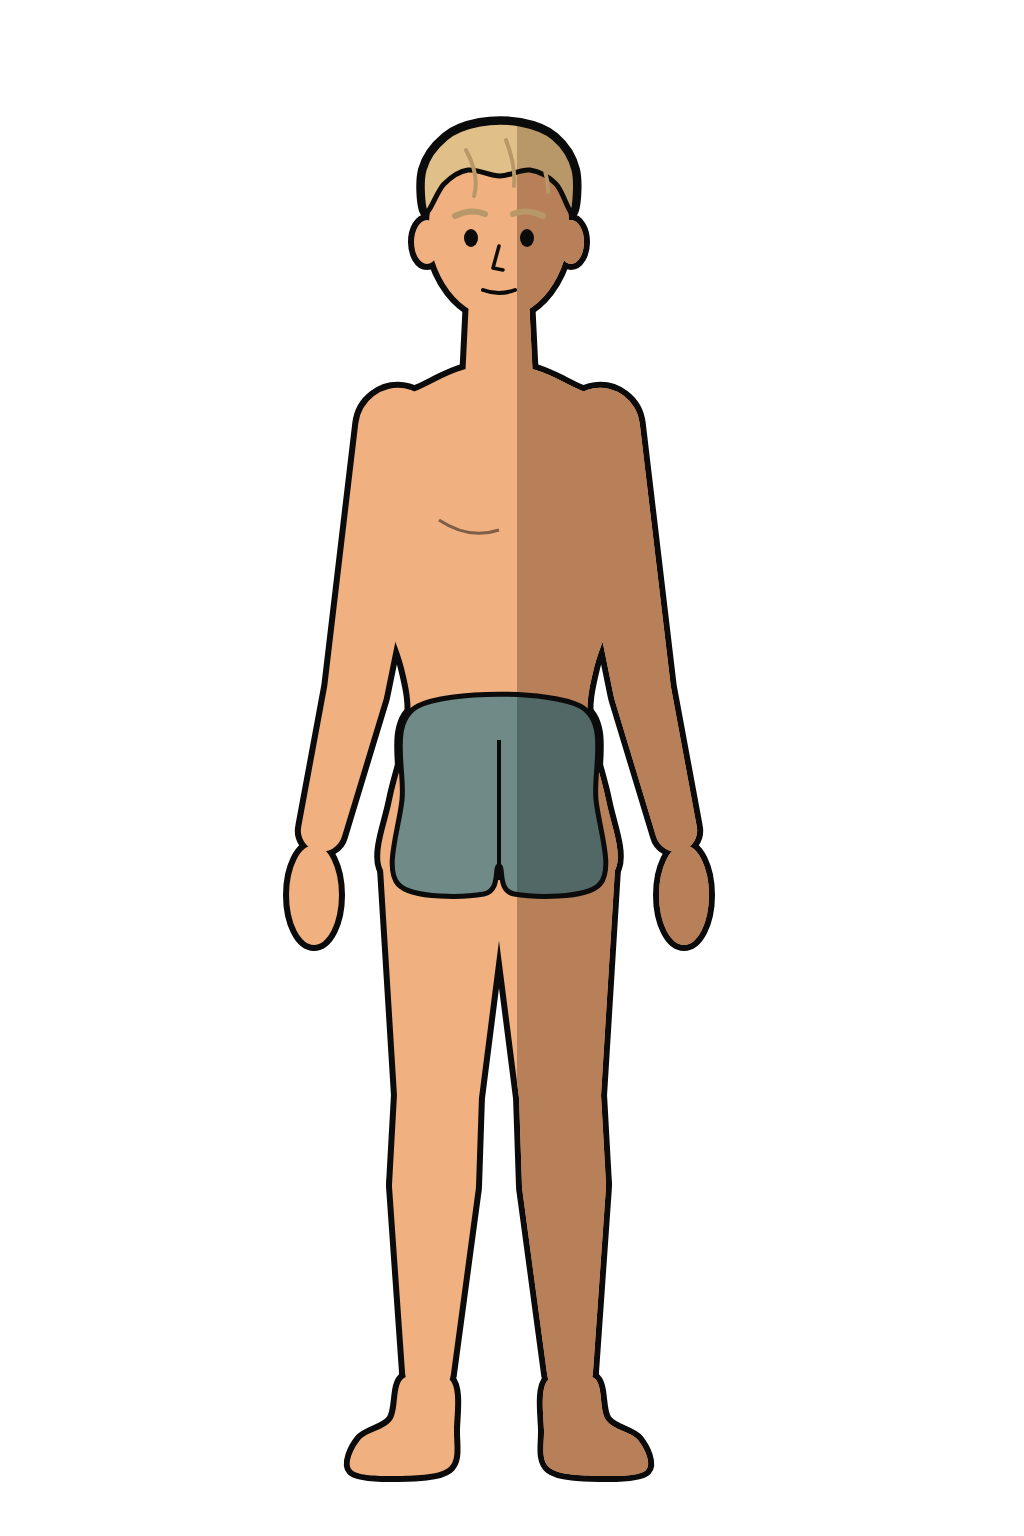
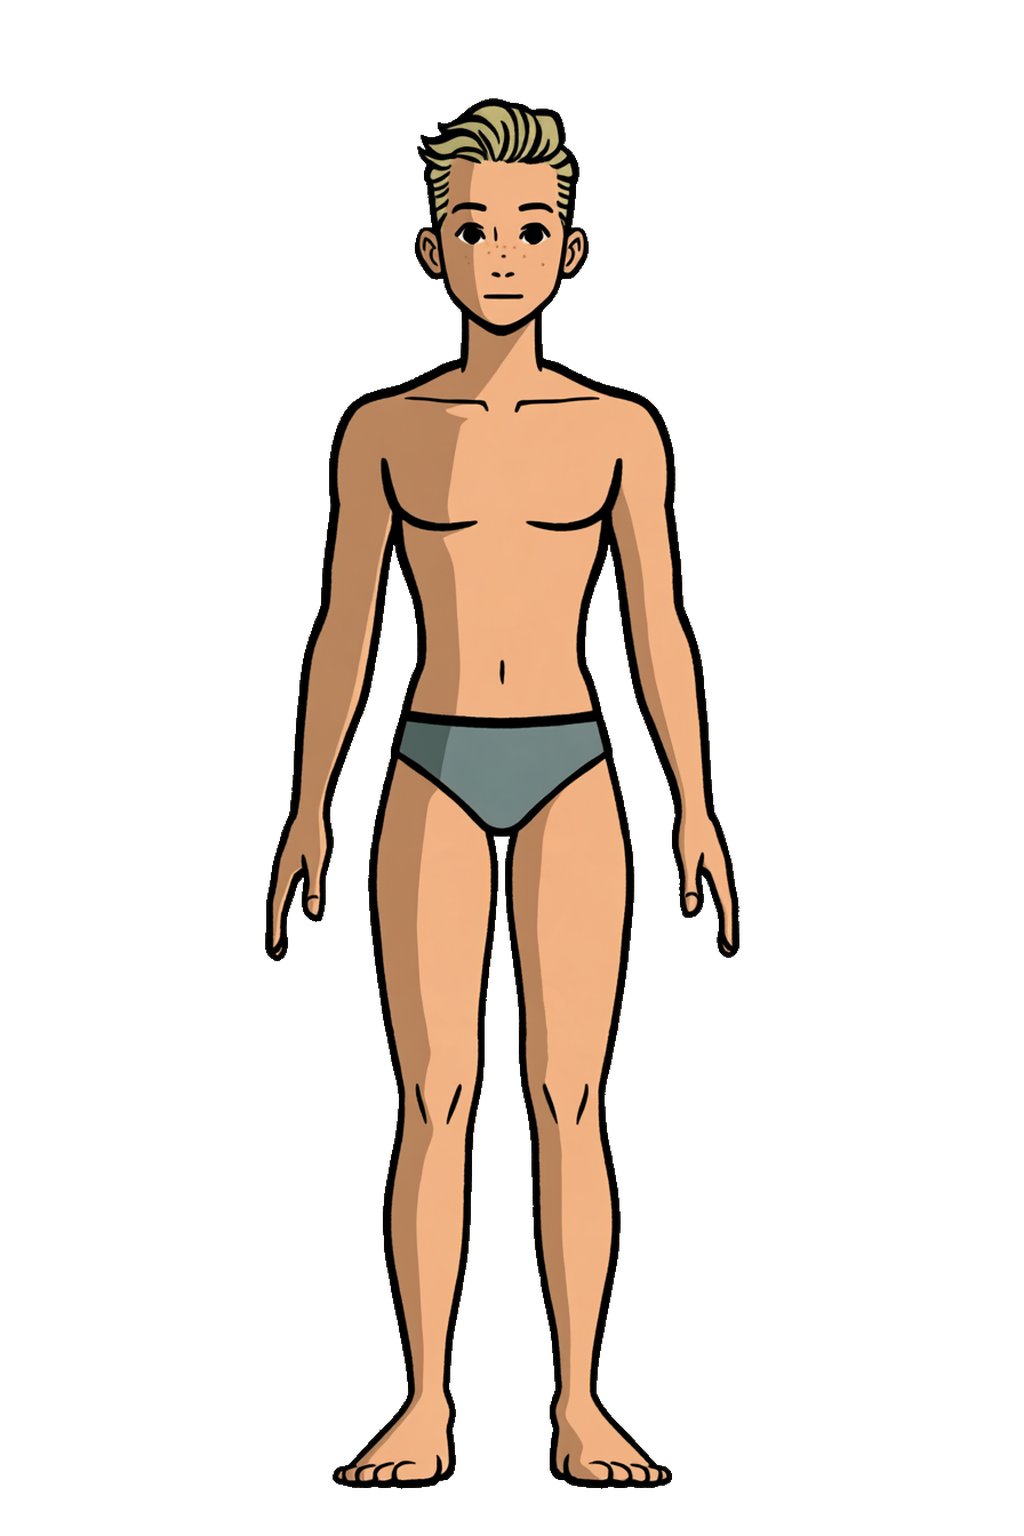
Envoy 4.1: the male Envoy, drawn by the user
His base figure replaces the placeholder of the second figure, with his
own versions of Leinenhemd, Leinenhose and Griffhandschuhe in his folder
(found by the converter). The layers were cleaned of faint specks and
scaled to 1024 x 1536; they fit exactly.

His drawn skin and ash blond hair are set in FIGURES, so recolouring
works for him too. The first choice of skin and hair now stands for the
colours each figure is drawn in, so his own blond stays his.

Claude-Session: https://claude.ai/code/session_0117M4aYJ5RoPwj7oU8m6XcB

Changed region(s): [[0.25, 0.0625, 0.7188, 0.9688]]

diff --git a/js/config.js b/js/config.js
@@ -1,7 +1,7 @@
 // Fixed values of the game. Everything the rules depend on lives here,
 // so it can be checked in one place against docs/spezifikation.md.
 
-export const APP_VERSION = '4.0.0';
+export const APP_VERSION = '4.1.0';
 
 // The four stats, in display order. `area` is the real-life daily task.
 export const STATS = [
@@ -55,21 +55,21 @@ export const SLOTS = [
 
 export const BASE_FIGURE_LAYER = 2;
 
-// The Envoy: figures to choose from when the Envoy is created. Each has
-// its own folder with basisfigur.png. Clothing layers lie in the folder of
-// the first figure; a figure can have its own version of a layer in its
-// folder (same file name), otherwise it wears the one of the first.
+// The Envoy: figures to choose from when the Envoy is created, both drawn
+// by the user. Each has its own folder with basisfigur.png. Clothing layers
+// lie in the folder of the first figure; a figure can have its own version
+// of a layer in its folder (same file name), otherwise it wears the one of
+// the first.
 // skin / skinShadow / hair: the colours the figure is drawn in; the app
 // paints them in the chosen colours (see ui/look.js). hairZone: hair only
 // occurs in this upper share of the picture.
 export const FIGURES = [
-  { id: 'erste', name: 'Erste Figur', folder: 'assets/figur', skin: [240, 176, 128], skinShadow: [184, 128, 88], hair: [224, 192, 136], hairZone: 0.25 },
-  // placeholder until the user's second figure is drawn
-  { id: 'zweite', name: 'Zweite Figur', folder: 'assets/figur/zweite', skin: [240, 176, 128], skinShadow: [184, 128, 88], hair: [224, 192, 136], hairZone: 0.25 },
+  { id: 'erste', name: 'Envoy mit Dutt', folder: 'assets/figur', skin: [240, 176, 128], skinShadow: [184, 128, 88], hair: [224, 192, 136], hairZone: 0.25 },
+  { id: 'zweite', name: 'Envoy mit kurzem Haar', folder: 'assets/figur/zweite', skin: [240, 176, 130], skinShadow: [182, 130, 90], hair: [190, 178, 118], hairZone: 0.25 },
 ];
 
-// Choices for skin and hair. The first of each is the colour the figures
-// are drawn in.
+// Choices for skin and hair. The first of each stands for the colour a
+// figure is drawn in (its own blond, its own skin), so it is never painted.
 export const SKIN_TONES = [
   { id: 'pfirsich', name: 'Pfirsich', rgb: [240, 176, 128] },
   { id: 'hell', name: 'Hell', rgb: [248, 208, 180] },

diff --git a/js/ui/create.js b/js/ui/create.js
@@ -5,6 +5,7 @@
 import { h, replaceChildren } from './dom.js';
 import { FIGURES, SKIN_TONES, HAIR_COLORS, NAME_MAX } from '../config.js';
 import { paperdoll } from './paperdoll.js';
+import { resolveLook } from './look.js';
 
 const rgb = (c) => `rgb(${c.rgb.join(',')})`;
 
@@ -41,6 +42,8 @@ export function renderCreate(game, { onDone, onCancel = null } = {}) {
   }
 
   function swatches(list, key, label) {
+    // the first colour is the one the chosen figure is drawn in
+    const drawn = resolveLook({ figur: choice.figur })[key === 'haut' ? 'skin' : 'hair'];
     return h('div', { class: 'swatch-group' },
       h('p', { class: 'swatch-label' }, label),
       h('div', { class: 'swatches', role: 'radiogroup', 'aria-label': label }, list.map((c) => h('button', {
@@ -49,7 +52,7 @@ export function renderCreate(game, { onDone, onCancel = null } = {}) {
         'aria-checked': String(choice[key] === c.id),
         'aria-label': c.name,
         title: c.name,
-        style: { background: rgb(c) },
+        style: { background: rgb(c === list[0] ? drawn : c) },
         onclick: () => { choice[key] = c.id; draw(); },
       }))));
   }

diff --git a/js/ui/look.js b/js/ui/look.js
@@ -15,12 +15,16 @@ const painting = new Map(); // key -> Promise of a picture address
 const painted = new Map();  // key -> picture address, once ready
 
 // The figure and colours of an Envoy; unknown or missing values fall back
-// to the first of each list.
+// to the first of each list. The first colour of each list is the one the
+// figure is drawn in.
 export function resolveLook(envoy) {
+  const figure = FIGURES.find((x) => x.id === envoy?.figur) || FIGURES[0];
+  const skin = SKIN_TONES.find((x) => x.id === envoy?.haut) || SKIN_TONES[0];
+  const hair = HAIR_COLORS.find((x) => x.id === envoy?.haar) || HAIR_COLORS[0];
   return {
-    figure: FIGURES.find((x) => x.id === envoy?.figur) || FIGURES[0],
-    skin: SKIN_TONES.find((x) => x.id === envoy?.haut) || SKIN_TONES[0],
-    hair: HAIR_COLORS.find((x) => x.id === envoy?.haar) || HAIR_COLORS[0],
+    figure,
+    skin: skin === SKIN_TONES[0] ? { ...skin, rgb: figure.skin } : skin,
+    hair: hair === HAIR_COLORS[0] ? { ...hair, rgb: figure.hair } : hair,
   };
 }
 

diff --git a/sw.js b/sw.js
@@ -2,7 +2,7 @@
 // Network first, so a new version on the server is used right away;
 // if the network does not answer in time, the stored copy is used.
 
-const CACHE = 'envoy-v11';
+const CACHE = 'envoy-v12';
 const NETWORK_TIMEOUT_MS = 3500;
 
 self.addEventListener('install', () => self.skipWaiting());

diff --git a/docs/spezifikation.md b/docs/spezifikation.md
@@ -457,18 +457,19 @@ Ebenenreihenfolge (hinten nach vorn): 1 Umhang hinten, 2 Basisfigur (Körper, Ko
 Grundkleidung), 3 Beinkleidung, 4 Schuhe, 5 Torso, 6 Handwickel, 7 Frisur /
 Kopfbedeckung.
 
-**Zwei Figuren** stehen bei der Erstellung zur Wahl. Die erste ist die Envoy der
-Nutzerin: eine Frau im Comicstil mit schwarzer Kontur, blondes Haar im Dutt, graue
-Unterwäsche als Grundkleidung. Die zweite ist ein Platzhalter, bis ihre Zeichnung fertig
-ist; er ist auf dieselbe Vorlage gezeichnet, damit die Kleidung passt. Jede Figur hat
-einen eigenen Ordner mit `basisfigur.png` (die erste `assets/figur/`, die zweite
+**Zwei Figuren** stehen bei der Erstellung zur Wahl, beide von der Nutzerin im
+Comicstil mit schwarzer Kontur gezeichnet: eine Frau mit blondem Haar im Dutt und ein
+Mann mit kurzem, aschblondem Haar, beide in grauer Unterwäsche als Grundkleidung. Jede
+Figur hat einen eigenen Ordner mit `basisfigur.png` (die Frau `assets/figur/`, der Mann
 `assets/figur/zweite/`). Kleidung liegt im Ordner der ersten Figur; braucht eine andere
 Figur eine eigene Fassung, kommt sie mit gleichem Dateinamen in deren Ordner, sonst trägt
-sie die der ersten.
+sie die der ersten. Der Mann hat eigene Fassungen von Leinenhemd, Leinenhose und
+Griffhandschuhen.
 
 **Haut- und Haarfarbe** wählt man bei der Erstellung (6 Hauttöne, 7 Haarfarben). Jede
 Figur ist in einer Haut- und einer Haarfarbe gezeichnet; die App färbt diese Stellen im
-Browser um. Was Haut und was Haar ist, ergibt sich aus dem Farbton: Haut ist orange,
+Browser um. Die erste Wahl jeder Reihe ist die gezeichnete Farbe der gewählten Figur
+(ihr eigenes Blond, ihre eigene Haut). Was Haut und was Haar ist, ergibt sich aus dem Farbton: Haut ist orange,
 Haar gelblicher und nur im oberen Viertel des Bildes. Schattierung und Linien bleiben,
 wie gezeichnet. In Kleidungsebenen werden nur Stellen im genauen Hautton umgefärbt, etwa
 Fingerspitzen in fingerlosen Handschuhen. Die gezeichneten Farben stehen in
@@ -567,7 +568,7 @@ Zweig `main` per SFTP auf den IONOS-Webspace.
 | Slots | 6, kein Gürtel, keine Schulterstücke, kein Waffen-Slot |
 | Rucksack | 5 Plätze; das Lager (bisher Schrank) nur im Lager nutzbar |
 | Konten | Name und Passwort auf dem eigenen Server; ohne Konto nur auf einem Gerät |
-| Figuren | zwei zur Wahl, Haut- und Haarfarbe werden im Browser umgefärbt |
+| Figuren | Frau und Mann zur Wahl, Haut- und Haarfarbe werden im Browser umgefärbt |
 | Icons | aus den Zeichnungen der Ebenen freigestellt |
 | Währung | Bannsplitter; dazu Pilzholz und Stein |
 | Leichter Werkstoff | Pilzholz statt Holz (Quarz war zu schwer und zu spröde) |

diff --git a/README.md b/README.md
@@ -85,7 +85,7 @@ Auf dem Mac geht es auch direkt: im Projektordner `python3 tools/convert_data.py
 | Was | Ort | Größe |
 | --- | --- | --- |
 | Basisfigur (erste Figur) | `assets/figur/basisfigur.png` | 1024 × 1536, transparent |
-| Zweite Figur | `assets/figur/zweite/basisfigur.png` | noch ein Platzhalter; eigene Kleidung mit gleichem Namen in diesen Ordner |
+| Zweite Figur (Mann) | `assets/figur/zweite/basisfigur.png` | seine eigene Kleidung mit gleichem Namen in diesen Ordner |
 | Ausrüstung auf der Figur | `assets/figur/slot_name_stufe.png` | 1024 × 1536, transparent, nie zuschneiden |
 | Icons | `assets/icons/icon_slot_name_stufe.png` | 256 × 256, transparent, aus der Zeichnung freigestellt |
 | Einrichtung | `assets/icons/icon_einrichtung_<id>.png` | 256 × 256, transparent |
@@ -103,7 +103,7 @@ Karte die Positionen der Orte (x, y in Prozent) in `welt.xlsx` anpassen.
 
 Haut- und Haarfarbe färbt die App selbst um. Dafür muss sie wissen, in welcher Haut- und
 Haarfarbe eine Figur gezeichnet ist; das steht in `js/config.js` unter `FIGURES`. Bleibt
-eine neue Figur bei denselben Farben wie die erste, ist nichts zu tun.
+eine neue Zeichnung einer Figur bei denselben Farben, ist nichts zu tun.
 
 ## Aufbau
 

diff --git a/CLAUDE.md b/CLAUDE.md
@@ -148,9 +148,9 @@ Icons sind 256 × 256 und werden aus den Zeichnungen der Ebenen freigestellt (so
 Wird die Voraussetzung eines getragenen Teils unterschritten, fliegt es aus dem Slot
 und wird **nicht mehr gerendert** — die Figur sieht dort aus, als trüge sie nichts.
 
-Zwei Figuren stehen zur Wahl: die Envoy der Nutzerin (`assets/figur/`) und ein
-Platzhalter für die zweite Figur (`assets/figur/zweite/`), bis deren Zeichnung fertig
-ist. Sonst zeichnet die Nutzerin Figur und Ausrüstung; keine weiteren eigenen
+Zwei Figuren stehen zur Wahl, beide von der Nutzerin gezeichnet: eine Frau
+(`assets/figur/`) und ein Mann (`assets/figur/zweite/`, mit eigenen Fassungen von
+Hemd, Hose und Handschuhen). Figur und Ausrüstung zeichnet die Nutzerin; keine eigenen
 Platzhalter erzeugen. Teile ohne Bild werden nicht gezeichnet, als Icon dient das
 Slot-Symbol. Haut- und Haarfarbe färbt die App im Browser um (`js/ui/look.js`).
 
